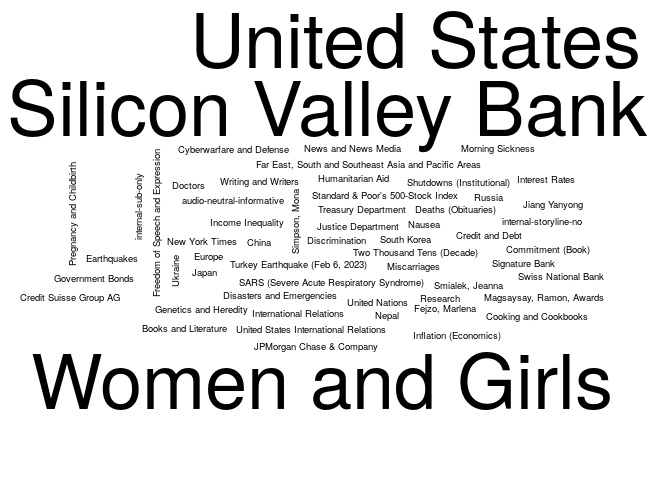
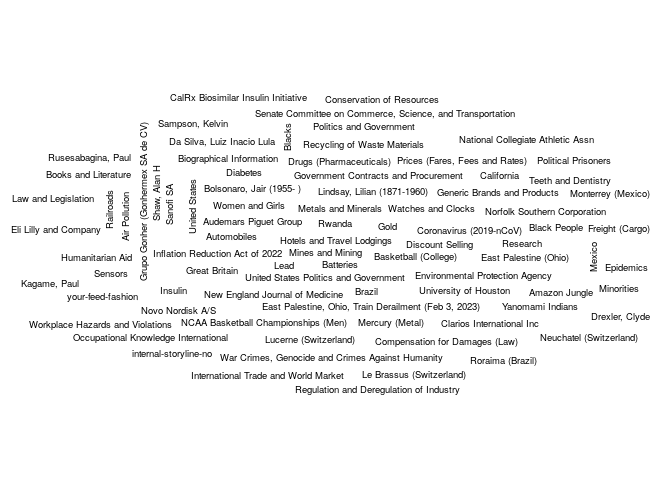
Updating the NYT report

Changed region(s): [[0.0, 0.0, 0.9688, 0.875]]

diff --git a/03-nytimes/README.md b/03-nytimes/README.md
@@ -5,7 +5,7 @@ The following is an example of how to use the [NYTimes
 API](https://developer.nytimes.com/) to get a list of articles related
 to a particular term. Here we are searching articles that include the
 term `"health"`, and that were published up to seven days ago since
-2023-03-20.
+2023-03-27.
 
 ``` r
 # Preparing a function to use the GET method with the NYTimes API
@@ -83,25 +83,25 @@ colnames(tab) <- c("Keyword", "# Articles")
 knitr::kable(tab, row.names = FALSE)
 ```
 
-| Keyword                                 | \# Articles |
-|:----------------------------------------|------------:|
-| Banking and Financial Institutions      |          20 |
-| Content Type: Personal Profile          |          20 |
-| Federal Deposit Insurance Corp          |          20 |
-| Federal Reserve System                  |          20 |
-| Regulation and Deregulation of Industry |          20 |
-| Silicon Valley Bank                     |          20 |
-| Stocks and Bonds                        |          20 |
-| United States                           |          20 |
-| United States Economy                   |          20 |
-| Women and Girls                         |          20 |
-| audio-neutral-informative               |          10 |
-| Books and Literature                    |          10 |
-| China                                   |          10 |
-| Commitment (Book)                       |          10 |
-| Cooking and Cookbooks                   |          10 |
-| Credit and Debt                         |          10 |
-| Credit Suisse Group AG                  |          10 |
-| Cyberwarfare and Defense                |          10 |
-| Deaths (Obituaries)                     |          10 |
-| Disasters and Emergencies               |          10 |
+| Keyword                             | \# Articles |
+|:------------------------------------|------------:|
+| Hazardous and Toxic Substances      |          20 |
+| Air Pollution                       |          10 |
+| Amazon Jungle                       |          10 |
+| Audemars Piguet Group               |          10 |
+| Automobiles                         |          10 |
+| Basketball (College)                |          10 |
+| Batteries                           |          10 |
+| Biographical Information            |          10 |
+| Black People                        |          10 |
+| Blacks                              |          10 |
+| Bolsonaro, Jair (1955- )            |          10 |
+| Books and Literature                |          10 |
+| Brazil                              |          10 |
+| California                          |          10 |
+| CalRx Biosimilar Insulin Initiative |          10 |
+| Clarios International Inc           |          10 |
+| Compensation for Damages (Law)      |          10 |
+| Conservation of Resources           |          10 |
+| Coronavirus (2019-nCoV)             |          10 |
+| Da Silva, Luiz Inacio Lula          |          10 |
